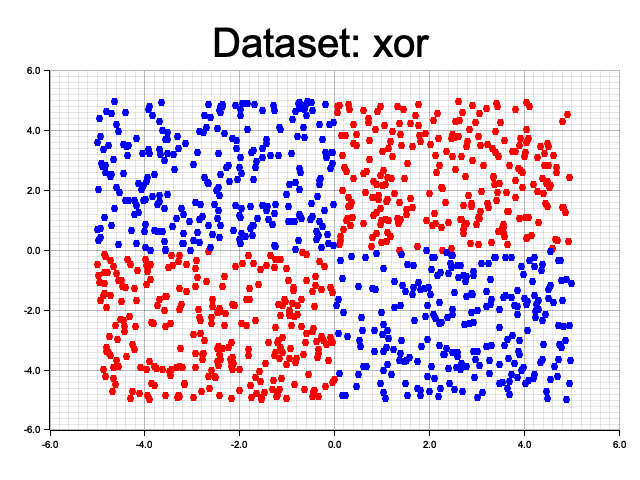
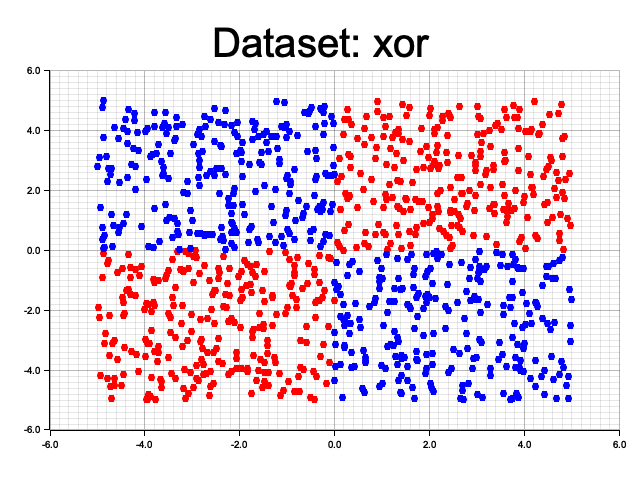
fix: update xor decision boundary

Changed region(s): [[0.125, 0.1875, 0.9062, 0.8438]]

diff --git a/README.md b/README.md
@@ -3,7 +3,7 @@
 
 This library is used to create a simple neural network applied to various canonical multiclass classification problems (linear, XOR, half moons, concentric circles) to illustrate its functionality. The library can also be applied to other multiclass classification and regression tasks with different dimensions.
 
-`grad-rs` creates a computation graph (a DAG of nodes in the forward pass) where each node is a model parameter or an intermediate value (analogous to a PyTorch tensor, however gradients are computed for all nodes not only leaf nodes). This is used in the backwards pass with prewritten gradient functions to compute the derivative of the loss wrt each node. A small set of arithmetic and the resulting computation graph can be composed to compute derivatives of relatively complex functions (e.g. softmax which transforms a vector into a vector). Inspiration was taken from [Karpathy's micrograd](https://github.com/karpathy/micrograd) in Python. Useful for educational purposes.
+`grad-rs` creates a computation graph (a DAG of nodes in the forward pass) where each node is a model parameter or an intermediate value. This is analogous to a PyTorch tensor, however gradients are stored for all nodes, not only leaf nodes. In contrast, for memory efficient, PyTorch only stores gradients for leaf nodes which require gradients. More relevant info is in PyTorch docs for [`is_leaf`](https://pytorch.org/docs/stable/generated/torch.Tensor.is_leaf.html). This is used in the backwards pass with prewritten gradient functions to compute the derivative of the loss wrt each node. A small set of arithmetic and the resulting computation graph can be composed to compute derivatives of relatively complex functions (e.g. softmax which transforms a vector into a vector). Inspiration was taken from [Karpathy's micrograd](https://github.com/karpathy/micrograd) in Python. Useful for educational purposes.
 
 ## Usage
 Clone the repository and run via
@@ -15,9 +15,10 @@ cargo run
 ```
 
 ## Example Results
-Below are examples of classification outputs on select classification tasks. Each used the default configuration for a neural network with a single 10 neuron hidden layer (trained across 50 epochs, 0.001 learning rate, 0.9 momentum, minibatch size of 50 elements).
+Below are examples of classification outputs on select classification tasks. Each used the default configuration for a neural network with a single 10 neuron hidden layer (trained across 50 epochs, 0.001 learning rate, 0.9 momentum, minibatch size of 50 elements). 
 
 ### XOR
+XOR used `0.005` learning rate. On occassion, fitting XOR can be stuck in a local optimum if the initial decision boundary only covers one of the quadrants (see `xor_suboptimal.png`).
 ![XOR Decision Boundary](./output/decision_boundary_epoch_50_xor.png)
 
 ### Concentric Circles
